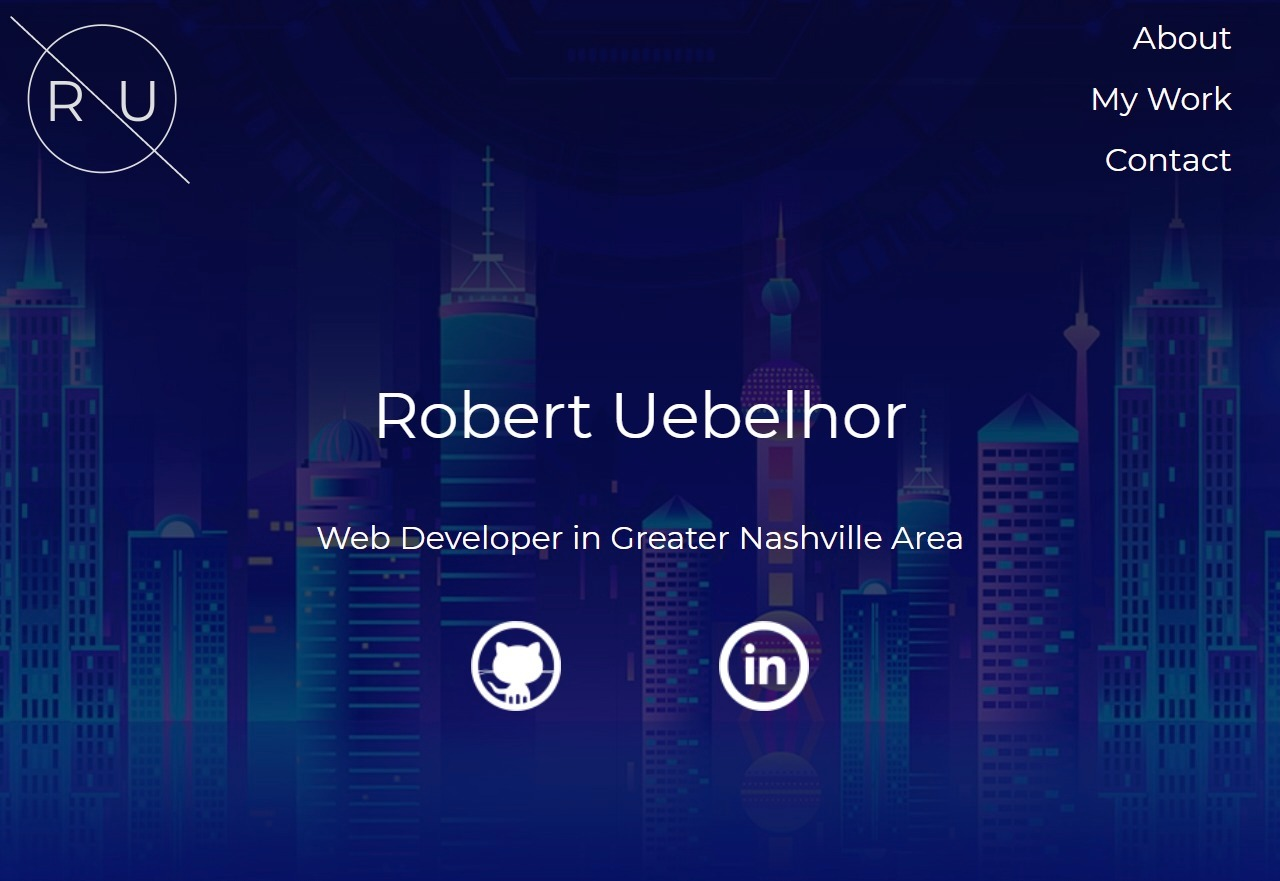
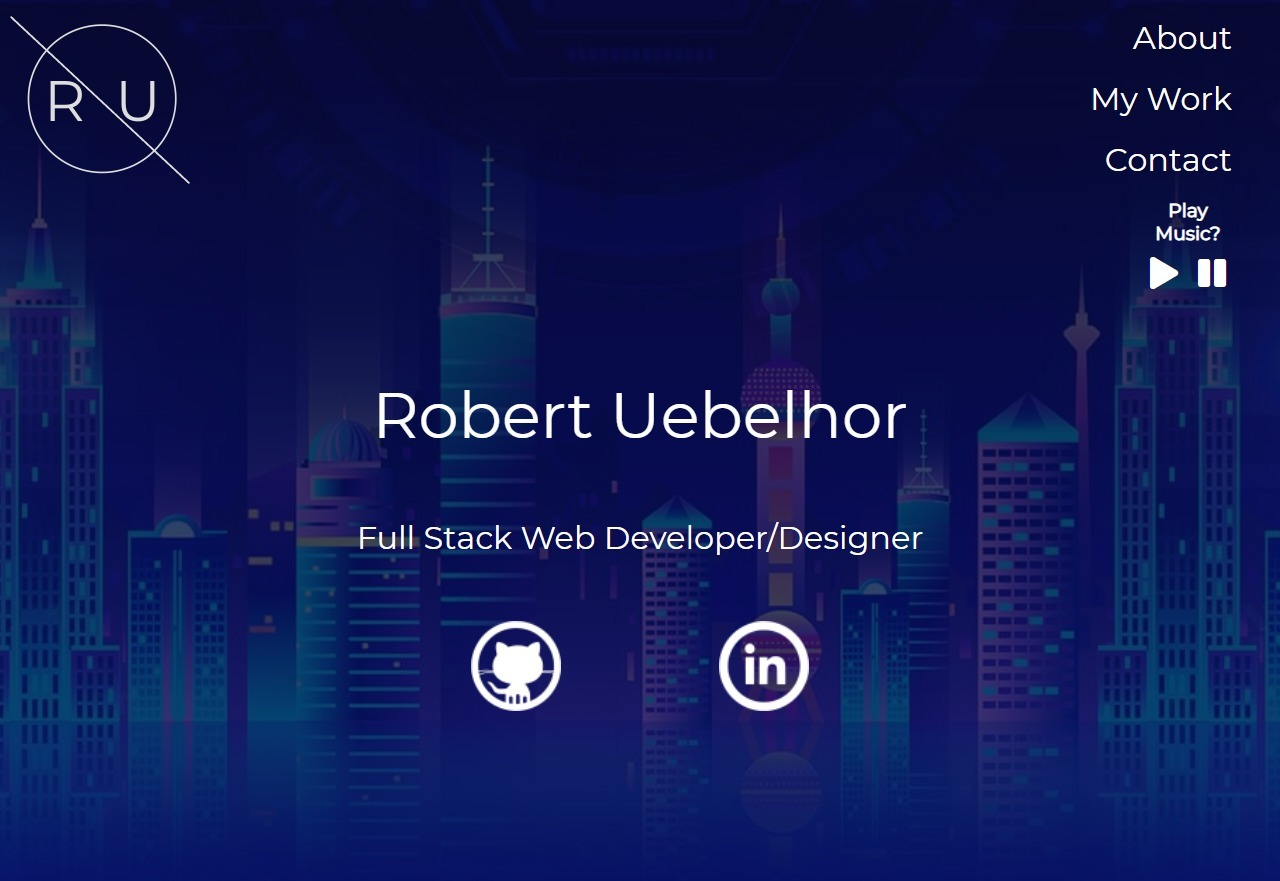
added "whatIdo" section

Changed region(s): [[0.25, 0.5823, 0.75, 0.6436], [0.875, 0.2145, 0.9688, 0.3371]]

diff --git a/index.html b/index.html
@@ -32,6 +32,9 @@
                     <a href="#about" role="menuitem" class="navigation-list__item"><span class="nav_border">About</span></a>
                 </li>
                 <li role="presentation">
+                  <a href="#whatIdo" role="menuitem" class="navigation-list__item"><span class="nav_border">What I Do</span></a>
+              </li>
+                <li role="presentation">
                     <a href="#work" role="menuitem" class="navigation-list__item"><span class="nav_border">My Work</span></a>
                 </li>
                 <li role="presentation">
@@ -52,7 +55,7 @@
 
     <div class="profile">
         <p class="profile__name">Robert Uebelhor</p>
-        <p class="profile__dev">Web Developer in Greater Nashville Area</p>
+        <p class="profile__dev">Full Stack Web Developer/Designer</p>
         <ul class="social-media">
             <li>
                 <a title="Github"  href="https://github.com/Drxl95">
@@ -74,43 +77,69 @@
     <h1 class="about__title">About Me</h1>
         <div class="about__flex">  
             <p class="about__descr">
-                Lorem ipsum dolor sit amet, consectetur adipiscing elit, sed do eiusmod tempor incididunt ut labore et dolore magna aliqua. Ut enim ad minim veniam, quis nostrud exercitation ullamco laboris nisi ut aliquip ex ea commodo consequat. Duis aute irure dolor in reprehenderit in voluptate velit esse cillum dolore eu fugiat nulla pariatur. Excepteur sint occaecat cupidatat non proident, sunt in culpa qui officia deserunt mollit anim id est laborum.</p>
+               Hello and welcome to my site!  My name is Robert and I am a full-stack web developer/designer.  I am very ambitious and passionate about what
+              I do and am always looking to improve my skills and knowledge.  My passion lies in design, and I always enjoy coming up with new ideas and looks. 
+              On a personal level, I see my proffesion as merely a journey, where we travel together on the same shared path and learn new things in the process.
+          If you are interested in me or my work, please take a look below and feel free to reach out to me, I am always listening. <br> Thanks for stopping by! </p>
             <!-- <img class="portrait" src="https://via.placeholder.com/150" alt="portrait" > -->
         </div>
-        <div class="about__skills">
-            <h1 class="about__skills--title">My Skills</h1>
-            <ul class="about__skills--list">
-                <li>
-                    <div id="html-icon">
-                      <img id="html-img" class="logo" src="img/html5.svg" alt="html-icon">
-                    </div>
-                </li>
-                <li>
-                  <div>
-                    <img class="logo" src="img/css-3 (1).svg" alt="css-icon">
-                  </div>
-              </li>
-              <li>
-                <div>
-                  <img class="logo" src="img/javascript.svg" alt="javascript-icon">
-                </div>
-              </li>
-              <li>
-                <div>
-                  <img class="logo" src="img/Node.svg" alt="node-icon">
-                </div>
-                <li>
-                  <div>
-                    <img class="logo" src="img/boot.svg" alt="bootstrap-icon">
-                  </div>
-              </li>
-            </li>
-            </ul>
-        </div>
+   
         
     <a href="files/resume.pdf" download class="button">Download my Resume</a>
 </section>    
-        
+<!--What I Do Section-->
+<section id="whatIdo">
+  <div class="whatIdo__container">
+      <h1 class="whatIdo__title">What I Do</h1>
+    <ul class="whatIdo__list">
+      <li class="whatIdo__li">
+        <img  class="design__icon" src="img/frontend.png">
+        <h1>Front-End</h1>
+        <ul class="whatIdo__frontend">
+          <li>HTML</li>
+          <li>CSS/Sass</li>
+          <li>Bootstrap</li>
+          <li>Javascript/Ajax</li>
+          <li>jQuery</li>
+        </ul>
+      </li>
+      <li class="whatIdo__li">
+        <img  class="design__icon" src="img/backend.png">
+        <h1>Back-End</h1>
+        <ul class="whatIdo__backend">
+          <li>node.js</li>
+          <li>Express</li>
+          <li>MongoDB/SQL</li>
+        </ul>
+      </li>
+      <li class="whatIdo__li">
+        <img class="design__icon" src="img/design.png">
+        <h1>Design</h1>
+        <ul class="whatIdo__design">
+          <li>UI/UX</li>
+          <li>Wordpress</li>
+          <li>gimp</li>
+        </ul>
+      </li>
+      <li class="whatIdo__li">
+        <img  class="design__icon" src="img/api.png">
+        <h1>APIs</h1>
+        <ul class="whatIdo__api">
+          <li>Ajax</li>
+          <li>RESTful</li>
+        </ul>
+      </li>
+      <li class="whatIdo__li">
+        <img  class="design__icon" src="img/seo.png">
+        <h1>Other Skills</h1>
+        <ul class="whatIdo__other">
+          <li>SEO</li>
+          <li>Github</li>
+        </ul>
+      </li>
+    </ul>
+  </div>
+</section>
 <!--My Work Section-->
 
 <!--Colombia Modal-->

diff --git a/CSS/style.css b/CSS/style.css
@@ -38,7 +38,7 @@ html,body {
     display: -ms-flexbox;
     display: flex;
     width: 100%; 
-    padding-right: 1.5rem;
+    padding-right: 1rem;
 }
 
 .page-header__item {
@@ -62,7 +62,7 @@ html,body {
             padding-inline-start: 0;
 }
 .navigation-list li {
-    margin: 1rem 0;
+    margin: .75rem 0;
     font-size: 2rem;
     list-style: none;
 }
@@ -309,6 +309,67 @@ margin-bottom: 4rem;
     border-color:rgb(17, 91, 201);
 }
 
+/*What I Do*/
+#whatIdo {
+    background-image: linear-gradient( rgba(12, 14, 151, 0.788), rgba(16, 19, 175, 0.575)), url("../img/abstract-black.jpg");
+    background-position: center;
+    color: white;
+    font-family: var(--main-font);
+    margin: 0;
+}
+.whatIdo__title {
+    margin: 0;
+    padding: 3rem 0rem;
+
+}
+.whatIdo__list {
+    display: flex;
+    flex-direction: row;
+    flex-wrap: wrap;
+    justify-content: space-evenly;
+    list-style: none;
+    margin: 0;
+    padding: 4rem;
+    padding-top: 3rem;
+}
+.whatIdo__list h1 {
+    padding: 0;
+    font-size: 1.75rem;
+}
+.whatIdo__frontend,
+.whatIdo__backend,
+.whatIdo__design,
+.whatIdo__api,
+.whatIdo__other {
+    display: flex;
+    flex-direction: column;
+    align-items: center;
+    padding-inline-start: 0rem;
+    list-style: square;
+}
+
+.whatIdo__frontend li,
+.whatIdo__backend li,
+.whatIdo__design li,
+.whatIdo__api li,
+.whatIdo__other li {
+    margin: .25rem 0;
+    font-size: 1.15rem;
+   
+}
+
+.whatIdo__li {
+    display: flex;
+    flex-direction: column;
+    align-items: center;
+    flex: 1 1 100px;
+}
+
+.design__icon {
+    width: 64px;
+    height: auto;
+}
+
 /*MY WORK SECTION*/
 
 /* modal part */
@@ -434,7 +495,6 @@ h1 {
   .row {
     display: flex;
     flex-wrap: wrap;
-   /*👉 padding: 0 4px;👈*/
   }
   
   .column {
@@ -519,6 +579,7 @@ h1 {
     font-family: var(--main-font);
     font-size: 3rem;
     padding-top: 2rem;
+    padding-bottom: 0rem;
     margin-top: 0rem;;
     
 }
@@ -817,7 +878,7 @@ color: white;
         margin-right: .75rem;
     }
     .navigation-list li {
-        margin-bottom: 1.75rem;
+       
         font-size: 1.75rem;
     }
     
@@ -1115,7 +1176,6 @@ and (-webkit-min-device-pixel-ratio: 1.5) {
         margin-right: .75rem;
     }
     .navigation-list li {
-        margin-bottom: 1.75rem;
         font-size: 1.75rem;
     }
     .profile__name {
@@ -1216,15 +1276,31 @@ and (-webkit-min-device-pixel-ratio: 1.5) {
     #play-music {
         width: 20%;
     }
-  
+    .design__icon {
+        width: 52px;
+    }
+    .whatIdo__list h1 {
+        font-size: 1.5rem;
+    }
+    .whatIdo__frontend li, .whatIdo__backend li, .whatIdo__design li, .whatIdo__api li, .whatIdo__other li {
+        font-size: 1rem;
+    }
 }
-@media only screen and (max-width: 900px) {
-        
 
+@media only screen and (max-width: 900px) {  
+    .navigation-list li {
+        margin: 0.25rem;
+    }
     #modal {
         width: 80%;
     }
+}
 
+@media only screen and (max-width: 850px) {
+    .whatIdo__li {
+       margin: .75rem; 
+      
+    }
 }
 
 
@@ -1237,7 +1313,7 @@ and (-webkit-min-device-pixel-ratio: 1.5) {
         margin-right: .75rem;
     }
     .navigation-list li {
-        margin-bottom: 1.75rem;
+     
         font-size: 1.75rem;
     }
     #play-music {
@@ -1362,7 +1438,7 @@ and (-webkit-min-device-pixel-ratio: 1.5) {
         margin-right: .75rem;
     }
     .navigation-list li {
-        margin-bottom: 1.75rem;
+      
         font-size: 1.75rem;
     }
     .profile__name {
@@ -1495,7 +1571,7 @@ and (-webkit-min-device-pixel-ratio: 1.5) {
         margin-right: .75rem;
     }
     .navigation-list li {
-        margin-bottom: 1.75rem;
+   
         font-size: 1.75rem;
     }
     .profile__name {
@@ -1622,7 +1698,27 @@ and (-webkit-min-device-pixel-ratio: 1.5) {
     }
 } 
 
-
+@media only screen and (max-width: 500px) {
+    .page-header {
+        padding: 0;
+    }
+    .whatIdo__list {
+        flex-direction: column;
+    }
+    .design__icon {
+        width: 72px;
+    }
+    .whatIdo__list h1 {
+        font-size: 2rem;
+    }
+    .whatIdo__li {
+        margin: 1rem;
+        margin-bottom: 2rem;
+    }
+    .whatIdo__frontend li, .whatIdo__backend li, .whatIdo__design li, .whatIdo__api li, .whatIdo__other li {
+        font-size: 1.5rem;
+    }
+}
 
 @media only screen and (max-width: 454px) {
     #play-music {
@@ -1637,6 +1733,9 @@ and (-webkit-min-device-pixel-ratio: 1.5) {
         min-height: 600px; 
         
     }
+    .page-header {
+        padding: 0;
+    }
     .page-header__item {
         width: 100px;
         height: 100%;
@@ -1649,7 +1748,7 @@ and (-webkit-min-device-pixel-ratio: 1.5) {
         
     }
     .navigation-list li {
-        margin: .75rem .25rem;
+        margin: 0;
     }
     .profile__name {
         font-size: 1.85rem;
